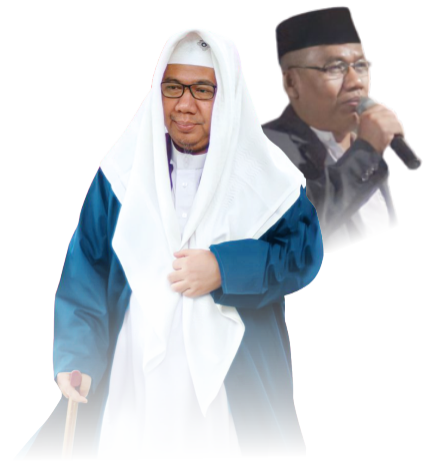
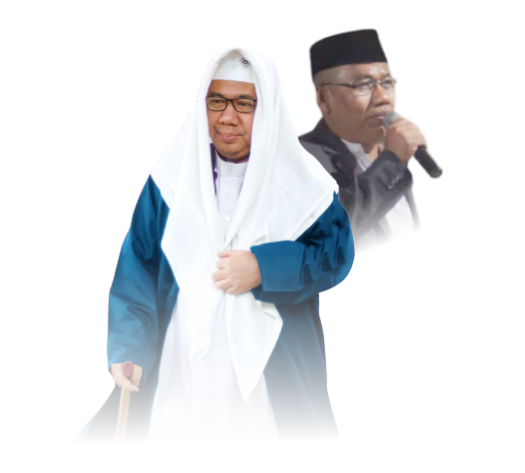
tanggal 30

Changed region(s): [[0.3949, 0.0, 1.0, 0.9471], [0.0607, 0.3552, 0.3645, 0.9471], [0.3645, 0.0592, 0.5164, 0.444]]

diff --git a/css/style.css b/css/style.css
@@ -583,7 +583,7 @@ font-family: roboto;
 
 
 .image-bg .hero-section {
-	background: linear-gradient(to right, rgba(0, 0, 0, 0.5), rgba(0, 0, 0, 0.2)), url(../images/image-bg.jpg) no-repeat center center;
+	background: linear-gradient(to right, rgba(0, 0, 0, 0.5), rgba(0, 0, 0, 0.2)), url(../images/2.jpg) no-repeat center center;
 	background-size: cover;
 	padding: 150px 0 100px 0;
 }
@@ -603,7 +603,7 @@ font-family: roboto;
 /* ------------ Signup Hero Section ------------ */
 
 .signup .hero-section {
-	background: linear-gradient(to right, rgba(0, 0, 0, 0.9), rgba(0, 0, 0, 0.7)), url(../images/app_bg.jpg) no-repeat center center;
+	background: linear-gradient(to right, rgba(0, 0, 0, 0.9), rgba(0, 0, 0, 0.7)), url(../images/2.jpg) no-repeat center center;
 	background-size: cover;
 	padding: 150px 0 100px 0;
 }
@@ -915,82 +915,6 @@ input[type="text"]::-webkit-input-placeholder, textarea::-webkit-input-placehold
 	border-color: #1eb858;
 }
 
-
-
-/*----------------------------------------------------
--------------- Split Home Coming Soon ----------------
------------------------------------------------------*/
-
-
-.cs-main .left-section {
-		background-color: #F2F2F2;
-		position: absolute;
-    left: 0;
-		right: 0;
-		top: 0;
-		bottom: 0;
-    width: 50%;
-		height: 100%;
-		overflow: hidden;
-    z-index: 1;
-}
-
-.cs-main .right-section {
-    position: absolute;
-    right: 0;
-    top: 0;
-    bottom: 0;
-		padding: 0 20px 0 20px;
-		width: 50%;
-		height: 100%;
-    background: #FFFFFF;
-    z-index: 99;
-    overflow: hidden;
-    overflow-y: auto;
-}
-
-.cs-main .hero-section {
-	padding: 120px 0 0 0;
-	background: #FFFFFF !important;
-}
-
-.cs-main .hero-content {
-	padding: 50px 0 0 0;
-}
-
-.cs-main .app-info h1 {
-	font-weight: 600;
-	font-size: 42px;
-}
-
-.cs-main .left-section {
-	background: linear-gradient(rgba(0, 0, 0, 0), rgba(0, 0, 0, 0)), url(../images/split-bg.jpg) no-repeat center center;
-	background-size: cover;
-}
-
-
-@media only screen and (max-width : 801px) {
-
-	 .cs-main .right-section{
-			position: relative;
-			width: 100%;
-	}
-
-	.cs-main .hero-section {
-		padding: 50px 0 0 0;
-	}
-
-
-	 .cs-main .left-section{
-			position: relative;
-			width: 100%;
-			min-height: 100vh;
-	}
-}
-
-
-
-
 /*-------------------------------------------------
 ----------- About Section Styling Starts ----------
 --------------------------------------------------*/
@@ -1274,7 +1198,7 @@ input[type="text"]::-webkit-input-placeholder, textarea::-webkit-input-placehold
 }
 
 .feature-sub {
-	background: linear-gradient(to right, rgba(0, 0, 0, 0.2), rgba(0, 0, 0, 0.6)), url(../images/image-bg.jpg) no-repeat center center;
+	background: linear-gradient(to right, rgba(0, 0, 0, 0.2), rgba(0, 0, 0, 0.6)), url(../images/2.jpg) no-repeat center center;
 	background-size: cover;
 	padding: 150px 0 150px 0;
 }
@@ -1283,26 +1207,6 @@ input[type="text"]::-webkit-input-placeholder, textarea::-webkit-input-placehold
 	padding:0 10% 0 10%;
 	text-align:center;
 	float: left;
-}
-
-/* --------- App Features Sub ------- */
-
-
-.software .feature-sub {
-	background: linear-gradient(to right, rgba(0, 0, 0, 0.1), rgba(0, 0, 0, 0.99)), url(../images/app_bg1.jpg);
-	background-repeat: no-repeat;
-	background-position: center;
-	background-size: cover;
-	padding: 150px 0 150px 0;
-}
-
-.software .feature-sub .sub-inner h1 {
-	font-family: 'Josefin Sans';
-	font-size: 34px;
-	font-weight: 300;
-	line-height: 1.1;
-	color: #FFF;
-	margin: 0 0 30px 0;
 }
 
 
@@ -1698,7 +1602,7 @@ padding: 120px 10px 50px 350px;
 .cta-sub {
 	padding-top: 150px;
 	padding-bottom: 150px;
-	background: linear-gradient(to right, rgba(0, 0, 0, 0.5), rgba(0, 0, 0, 0.9)), url(../images/cta_bg.jpg) no-repeat center center;
+	background: linear-gradient(to right, rgba(0, 0, 0, 0.5), rgba(0, 0, 0, 0.9)), url(../images/1.jpg) no-repeat center center;
 	background-size: cover;
 }
 

diff --git a/index.html b/index.html
@@ -46,7 +46,7 @@
   <div class="main app form" id="main"><!-- Main Section-->
     <div class="hero-section">
       <div class="container nopadding">
-        <div class="col-md-5"> <img class="img-responsive wow fadeInUp" data-wow-delay="0.1s" src="images/hero1.png" alt="App" /> </div>
+        <div class="col-md-5"> <img class="img-responsive wow fadeInUp" data-wow-delay="0.1s" src="images/hero3.png" alt="App" /> </div>
         <div class="col-md-7">
           <div class="hero-content">
             <h1 class="wow fadeInUp" data-wow-delay="0.1s">Pondok Pesantren Assalam Arya Kemuning</h1>
@@ -78,7 +78,7 @@
             </div>
           </div>
           <div class="col-md-12 wow fadeInDown" data-wow-delay="0.4s">
-            <div class="icon"> <i class="ion-ios-chatboxes-outline"></i> </div>
+            <div class="icon"> <i class="ion-ios-printer-outline"></i> </div>
             <div class="feature-single">
               <h1>Mencetak Kader</h1>
               <p>Mencetak kader penerus perjuangan yang berkesinambungan, penggerak motor da’wah islam.</p>
@@ -102,7 +102,7 @@
             </div>
           </div>
           <div class="col-md-12 wow fadeInDown" data-wow-delay="0.8s">
-            <div class="icon"> <i class="ion-ios-game-controller-b-outline"></i> </div>
+            <div class="icon"> <i class="ion-ios-heart-outline"></i> </div>
             <div class="feature-single">
               <h1>Semangat berislam</h1>
               <p>Menghidupkan semangat berislam dan menjadikan setiap diri suritauladan umat.</p>
@@ -133,7 +133,7 @@
         </div>
       </div>
       <div class="col-md-6 nopadding">
-        <div class="split-image"> <img class="img-responsive wow fadeIn" src="images/about2.png" alt="Image" /> </div>
+        <div class="split-image"> <img class="img-responsive wow fadeIn" src="images/about5.png" alt="Image" /> </div>
       </div>
     </div>
     
@@ -222,13 +222,12 @@
     <div class="cta-sub no-color">
       <div class="container">
         <div class="cta-inner">
-          <h1 class="wow fadeInUp" data-wow-delay="0s">Sign Up to Our Newsletter and get exciting offers</h1>
-          <p class="wow fadeInUp" data-wow-delay="0.2s"> Enter your email address we promise, never disclose<br class="hidden-xs">
-             or sell your email address. </p>
+          <h1 class="wow fadeInUp" data-wow-delay="0s">Pondok Pesantren Assalam Arya Kemuning</h1>
+          <p class="wow fadeInUp" data-wow-delay="0.2s">Berikan komentar, saran & masukan anda agar Ponpes Assalam <br>bisa menjadi pondok idaman.</p>
           <div class="form wow fadeInUp" data-wow-delay="0.3s">
             <form class="subscribe-form center-form wow zoomIn" action="php/subscribe.php" method="post" name="subscribeform" id="subscribeform">
-              <input class="mail" type="email" name="email" placeholder="Join the wait list" autocomplete="off" id="subemail">
-              <input class="submit-button" type="submit" value="Subscribe" name="send" id="subsubmit">
+              <input class="mail" type="email" name="email" placeholder="Ketik komentar" autocomplete="off" id="subemail">
+              <input class="submit-button" type="submit" value="Kirim" name="send" id="subsubmit">
             </form>
               <!-- subscribe message -->
         <div id="mesaj"></div>
